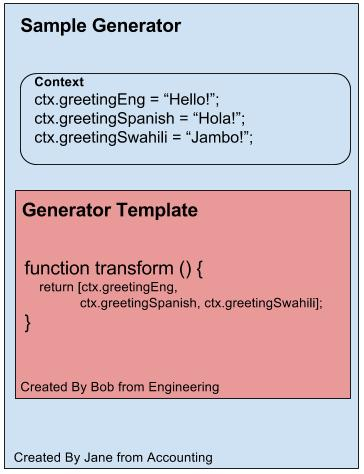
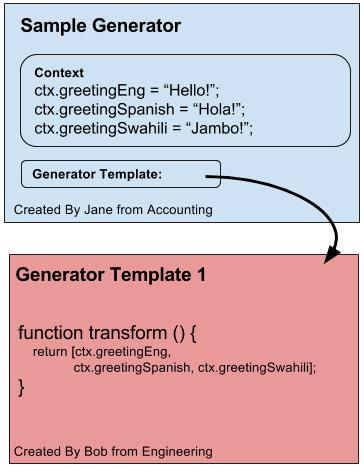
added Craig's changes.

diff --git a/docs/pages/collectorintro.md b/docs/pages/collectorintro.md
@@ -6,8 +6,8 @@ Collectors are designed to tackle these issues and make it easier than ever to l
 
 # So, what is a Collector 
 
-A Collector is an out-of-the-box application (running outside of Refocus) which collects data from different data sources and sends Samples to Refocus. It does this by leveraging user-provided config files called *Sample Generators*.
-Most users will never have to maintain a collector (unless you choose to deploy your own), they'll just write Sample Generators.
+A Collector is an out-of-the-box application, running outside of Refocus, which collects data from different data sources and sends Samples to Refocus. It does this by leveraging user-provided config files called a “Sample Generators”.
+Most users will never have to maintain a collector, they'll just write Sample Generators.
 
 ## Data pipeline with collectors
 
@@ -15,20 +15,18 @@ Most users will never have to maintain a collector (unless you choose to deploy 
 
 # Tell me more about Sample Generators
 
-To use a simple analogy, Collectors are akin to the *human* *body*, they do the manual heavy lifting, but everybody (and indeed every body!) needs a brain in order to tell it what to do - the Sample Generator is that *brain*. 
+To use a simple analogy, Collectors are akin to the *human* *body*, they do the manual heavy-lifting, but everybody (and indeed everybody!) needs a brain in order to tell it what to do - the Sample Generator is that *brain*. 
 
-We separated the *body* and the *brain* in order to modularize our system and make components interchangeable. Any Collector can interpret any Sample Generator, and changes don't require system deploys making it swift and easy to get your data into Refocus.
+We separated the *body* and the *brain* in order to modularize our system and make components interchangeable. Any Sample Generator can run on any Collector, and changes don't require system deploys making it swift and easy to get your data into Refocus.
 
 ![Collector using SG Diagram](../assets/CollectorSGDiagram.jpeg)
 
 One Collector will run multiple Sample Generators at once - collecting and pushing Samples for each.
 
-Each Sample Generator provides a path to your target data source, a set of subjects and aspects that you want to send samples for and other context information used by the transform code to generate samples. 
+Each Sample Generator provides a path to your target data source, a set of subjects and aspects that you want to send samples for and other contextual information used by the transform code to generate samples.
 
 ![Collector using SG Diagram](../assets/SGDiagram.jpeg)
 
-As is illustrated, the transform code leverages user-provided value to context variables. Most users will never interact with the transform code instead they will select the code template that works for them (more on this later!) and provide the context variables that are required. 
-
+As is illustrated, the transform code leverages user-provided value to context variables. Most users will never interact with the transform code, instead, they will select the code template that works for them and provide the context variables that are required. 
 
 Getting started with Refocus has never been easier! Write a Sample Generator, submit it to a Refocus instance and start visualizing!
-

diff --git a/docs/pages/samplegenintro.md b/docs/pages/samplegenintro.md
@@ -8,15 +8,13 @@ Continuing our theme of modularity, Sample Generators leverage Generator Templat
 
 ![Collector using SG Diagram](../assets/SGDiagram.jpeg)
 
-This diagram illustrates the major components of a Sample Generator (for now, we've hidden some details around Generator Templates). You can see that they have a context where variable values are set and they also use Generator Templates (there are other details but let's focus on these, for now). 
+This diagram illustrates the major components of a Sample Generator. You can see that they have a context where variable values are set and they also use Generator Templates. 
 
 A Sample Generator specifies the particular Generator Template it wants to use. It then provides values to context variables that the Generator Template uses to execute its code.
 
-In this simple example the Generator Template returns an array of greetings that the user provides. The variables are user configurable and depend on the values set in the Sample Generator. 
+In this simple example, the Generator Template returns an array of greetings that the user provides. The variables are user configurable and depend on the values set in the Sample Generator. 
 
 The result here is an array of greetings but in reality, transform functions will return an array of Samples which will be sent to your Refocus instance. 
-
-
 
 # Tell me more about Generator Templates
 
@@ -24,8 +22,7 @@ A Generator Template provides a Sample Generator with Javascript code. This code
 
 For example, I could write a Generator Template that leverages the API of my favorite Bitcoin exchange, BitX! It'll expect input data in the format used by that exchange as well as a mapping from currency value to Refocus Samples status. Then it will convert the return values into Samples for Refocus. 
 
-Then let's say you want to track how your Bitcoin portfolio is performing in real time. You want Refocus to show 'Critical' if Bitcoin prices drop below $3000 and 'Ok' otherwise. You would create a Sample Generator that references my Template and provides a mapping from USD to Status as well as the URL for the BitX instance you want to query. Submit that to Refocus and you're done!
+Then let's say you want to track how your Bitcoin portfolio is performing in real time. You may want Refocus to show 'Critical' if Bitcoin prices drop below $3000 and 'Ok' otherwise. You would create a Sample Generator that references my Generator Template and provides a mapping from USD to Status as well as the URL for the BitX instance you want to query. Submit that to Refocus and you're done!
 
 You don't need to know too much about how a Generator Template works - though you're free to inspect their source code.
 What's important is that you know how to leverage them to get your data into Refocus!
-
